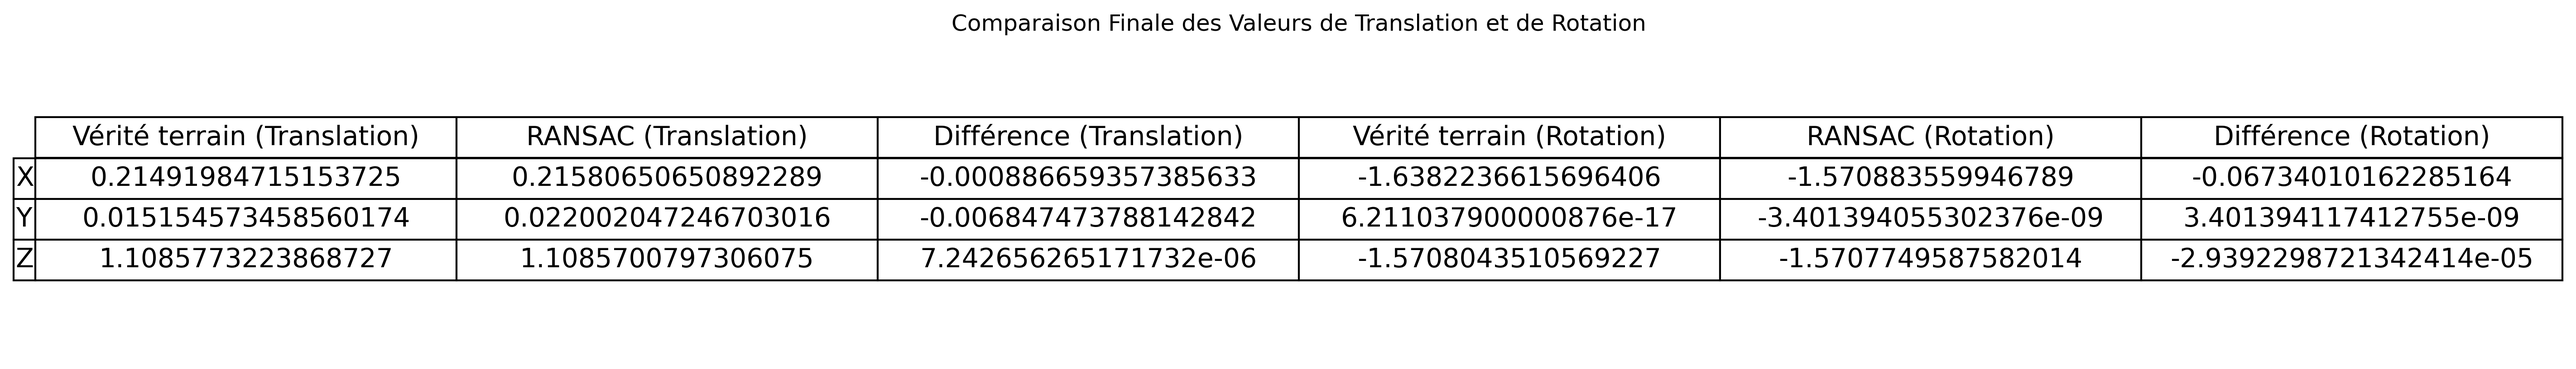
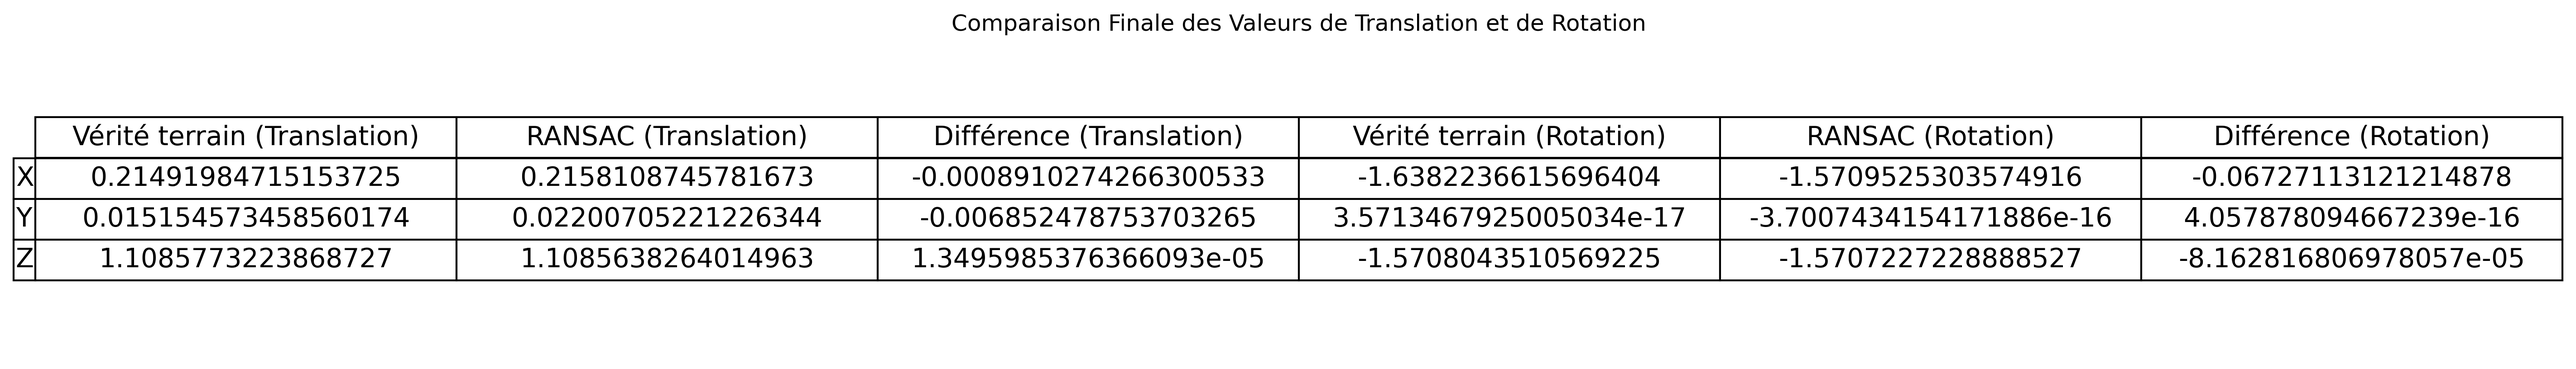
fix ransac

diff --git a/handeye.py b/handeye.py
@@ -86,6 +86,14 @@ class HandEyeCalibration:
         self.estimated_heads = np.array(estimated_heads)
         self.real_heads = np.array(real_heads)
     
+    def calc_angular_error(self, rot1, rot2):
+        r1 = R.from_euler('ZYX', rot1)
+        r2 = R.from_euler('ZYX', rot2)
+        relative_rot = r1.inv() * r2
+        angle = np.linalg.norm(relative_rot.as_rotvec())  
+        
+        return angle
+
     def plot_comparison(self):
         if self.estimated_heads is None or self.real_heads is None:
             raise ValueError("Les données estimées et réelles ne sont pas disponibles. Veuillez exécuter 'calculate_estimated_heads()' d'abord.")
@@ -113,18 +121,18 @@ class HandEyeCalibration:
 
         for _ in range(iterations):
             sample_indices = random.sample(range(len(R_base_cam)), 3)
-            sampled_R = [R_base_cam[i] for i in sample_indices]
-            sampled_R_YPR=[np.flip(R_base_cam[i]) for i in sample_indices]
+            sampled_R = [R.from_matrix(R_base_cam[i]).as_euler('ZYX') for i in sample_indices]
+            sampled_R_YPR=[R.from_matrix(R_base_cam[i]).as_euler('ZYX') for i in sample_indices]
             sampled_t = [t_base_cam[i] for i in sample_indices]
-
-            #avg_R = np.mean(sampled_R, axis=0)
-            avg_R = np.flip(sampled_R_YPR.mean().as_euler('ZYX',degrees=False ))
             
+            #avg_R = np.mean(sampled_R, axis=0)
+            
+            avg_R = [np.mean([sampled_R_YPR[0][i], sampled_R_YPR[1][i], sampled_R_YPR[2][i]]) for i in range(3)]
             avg_t = np.mean(sampled_t, axis=0)
 
             inliers_count = 0
             for i in range(len(R_base_cam)):
-                diff_R = np.linalg.norm(R_base_cam[i] - avg_R)
+                diff_R = self.calc_angular_error(R.from_matrix(R_base_cam[i]).as_euler('ZYX'), avg_R)
                 diff_t = np.linalg.norm(t_base_cam[i] - avg_t)
                 if diff_R < threshold and diff_t < threshold:
                     inliers_count += 1
@@ -134,7 +142,95 @@ class HandEyeCalibration:
                 best_R = avg_R
                 best_t = avg_t
 
-        return np.flip(R.from_matrix(best_R).as_euler('ZYX')), best_t
+        return np.flip(best_R), best_t
+    
+    def remove_outliers(self, rotation_threshold=0.05, translation_threshold=0.05):
+        R_base_cam, t_base_cam = self.calculate_base_to_camera_transform()
+
+        inliers_R = []
+        inliers_t = []
+
+        mean_R = np.mean([R.from_matrix(rot).as_euler('ZYX') for rot in R_base_cam], axis=0)
+        mean_t = np.mean(t_base_cam, axis=0)
+
+        for i in range(len(R_base_cam)):
+            diff_R = self.calc_angular_error(R.from_matrix(R_base_cam[i]).as_euler('ZYX'), mean_R)
+            diff_t = np.linalg.norm(t_base_cam[i] - mean_t)
+
+            if diff_R < rotation_threshold and diff_t < translation_threshold:
+                inliers_R.append(R_base_cam[i])
+                inliers_t.append(t_base_cam[i])
+
+        return inliers_R, inliers_t
+
+    def find_best_pose_from_neighborhood(self, inliers_R, inliers_t, threshold=0.05):
+        best_inliers_count = 0
+        best_R = None
+        best_t = None
+
+        for i in range(len(inliers_R)):
+            current_R = inliers_R[i]
+            current_t = inliers_t[i]
+
+            inliers_count = 0
+            for j in range(len(inliers_R)):
+                if i == j:
+                    continue
+
+                diff_R = self.calc_angular_error(R.from_matrix(inliers_R[j]).as_euler('ZYX'), R.from_matrix(current_R).as_euler('ZYX'))
+                diff_t = np.linalg.norm(inliers_t[j] - current_t)
+
+                if diff_R < threshold and diff_t < threshold:
+                    inliers_count += 1
+
+            if inliers_count > best_inliers_count:
+                best_inliers_count = inliers_count
+                best_R = current_R
+                best_t = current_t
+
+        return R.from_matrix(best_R).as_euler('ZYX'), best_t
+
+# Example usage
+if __name__ == "__main__":
+    csv_filename = "handeye.csv"
+    handeye = HandEyeCalibration(csv_filename)
+
+    # Step 1: Remove outliers
+    inliers_R, inliers_t = handeye.remove_outliers()
+
+    # Step 2: Find best pose using neighborhood analysis
+    best_R, best_t = handeye.find_best_pose_from_neighborhood(inliers_R, inliers_t)
+
+    print("Meilleure estimation de R (Base -> Caméra):\n", best_R)
+    print("Meilleure estimation de t (Base -> Caméra):\n", best_t)
+
+    
+    def find_best_pose_from_neighborhood(self, inliers_R, inliers_t, threshold=0.05):
+        best_inliers_count = 0
+        best_R = None
+        best_t = None
+
+        for i in range(len(inliers_R)):
+            current_R = inliers_R[i]
+            current_t = inliers_t[i]
+
+            inliers_count = 0
+            for j in range(len(inliers_R)):
+                if i == j:
+                    continue
+
+                diff_R = self.calc_angular_error(R.from_matrix(inliers_R[j]).as_euler('ZYX'), R.from_matrix(current_R).as_euler('ZYX'))
+                diff_t = np.linalg.norm(inliers_t[j] - current_t)
+
+                if diff_R < threshold and diff_t < threshold:
+                    inliers_count += 1
+
+            if inliers_count > best_inliers_count:
+                best_inliers_count = inliers_count
+                best_R = current_R
+                best_t = current_t
+
+        return R.from_matrix(best_R).as_euler('ZYX'), best_t
     
     def generate_final_comparison(self, best_R, best_t):
         mean_real_t = np.mean(self.real_heads, axis=0)
@@ -170,15 +266,16 @@ class HandEyeCalibration:
         plt.close()
 
 
-
-
-
 if __name__ == "__main__":
     csv_filename = "handeye.csv"
     handeye = HandEyeCalibration(csv_filename)
     handeye.calculate_estimated_heads()
     handeye.plot_comparison()
+    """
     best_R, best_t = handeye.ransac_for_base_to_camera()
     print("Meilleure estimation de R (Base -> Caméra):\n", best_R)
     print("Meilleure estimation de t (Base -> Caméra):\n", best_t)
-    handeye.generate_final_comparison(best_R,best_t)
+    """
+    #handeye.generate_final_comparison(best_R,best_t)
+    inliers_R, inliers_t = handeye.remove_outliers()
+    best_R, best_t = handeye.find_best_pose_from_neighborhood(inliers_R, inliers_t)
